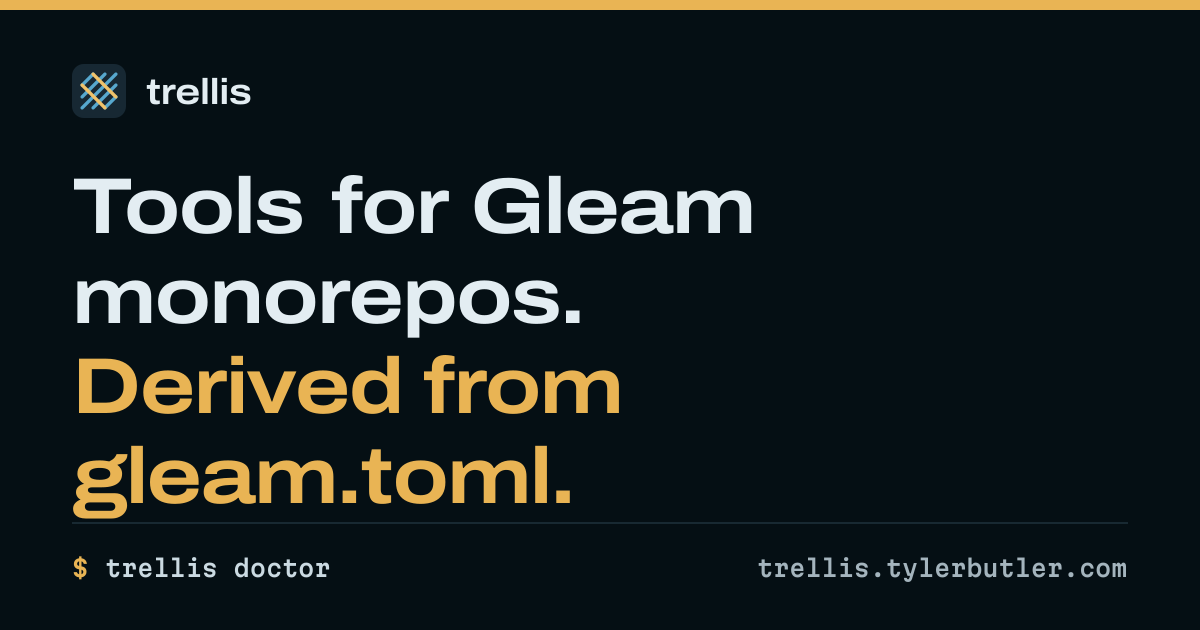
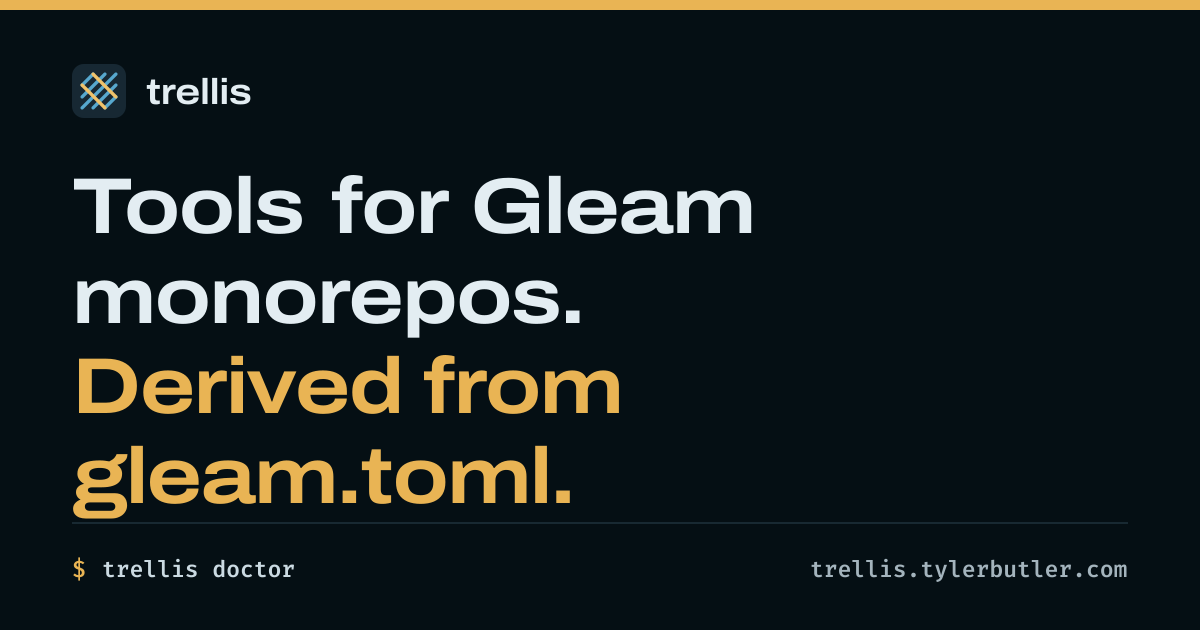
feat(website): switch code font to Fira Code
Replace Martian Mono with Fira Code Variable for ligature support and
a more compact advance width. Updated the fontsource dependency, CSS
tokens, Starlight/Expressive Code config, and the OG image script
(regenerated og.png). Fallback stack reordered so ui-monospace sits
after the named fonts and monospace stays the final catch-all.

Changed region(s): [[0.6167, 0.8746, 0.9558, 0.9349], [0.0617, 0.8746, 0.2775, 0.9349]]

diff --git a/website/scripts/generate-og.ts b/website/scripts/generate-og.ts
@@ -5,7 +5,7 @@
  * - Colors are parsed from src/styles/tokens.css (the same OKLCH tokens the
  *   site ships) and converted to hex with culori.
  * - Fonts are instanced at the exact DESIGN.md axis values (Archivo
- *   'wdth' 118 / wght 680, Martian Mono wght 560) from the same
+ *   'wdth' 118 / wght 680, Fira Code wght 560) from the same
  *   @fontsource-variable woff2 files the site serves, via HarfBuzz.
  * - The lattice glyph is the committed dark-scheme favicon mark.
  *
@@ -66,7 +66,7 @@ async function instance(
 const archivoText = headlinePlain + headlineBrass + wordmark;
 const monoText = `$ ${command}${domain}`;
 
-const [archivoDisplay, archivoWordmark, martianMono] = await Promise.all([
+const [archivoDisplay, archivoWordmark, firaCode] = await Promise.all([
   instance(
     "@fontsource-variable/archivo/files/archivo-latin-wdth-normal.woff2",
     archivoText,
@@ -78,7 +78,7 @@ const [archivoDisplay, archivoWordmark, martianMono] = await Promise.all([
     { wght: 640, wdth: 118 },
   ),
   instance(
-    "@fontsource-variable/martian-mono/files/martian-mono-latin-wght-normal.woff2",
+    "@fontsource-variable/fira-code/files/fira-code-latin-wght-normal.woff2",
     monoText,
     { wght: 560 },
   ),
@@ -175,7 +175,7 @@ const card = h(
             justifyContent: "space-between",
             alignItems: "center",
             marginTop: 30,
-            fontFamily: "Martian Mono",
+            fontFamily: "Fira Code",
             fontSize: 23,
           },
           [
@@ -199,7 +199,7 @@ const svg = await satori(card, {
   fonts: [
     { name: "Archivo Display", data: archivoDisplay, weight: 680 },
     { name: "Archivo Wordmark", data: archivoWordmark, weight: 640 },
-    { name: "Martian Mono", data: martianMono, weight: 560 },
+    { name: "Fira Code", data: firaCode, weight: 560 },
   ],
 });
 

diff --git a/website/src/styles/tokens.css b/website/src/styles/tokens.css
@@ -22,7 +22,7 @@
 
   /* -- type -- */
   --font-sans: "Archivo Variable", "Helvetica Neue", Arial, sans-serif;
-  --font-mono: "Martian Mono Variable", ui-monospace, "SF Mono", Menlo, monospace;
+  --font-mono: "Fira Code Variable", "SF Mono", Menlo, ui-monospace, monospace;
 
   --text-display: clamp(2.3rem, 1.1rem + 4.6vw, 4.4rem);
   --text-h2: clamp(1.6rem, 1.05rem + 2.1vw, 2.5rem);

diff --git a/website/src/styles/starlight.css b/website/src/styles/starlight.css
@@ -37,7 +37,7 @@
 
   /* type */
   --sl-font: "Archivo Variable", "Helvetica Neue", Arial, sans-serif;
-  --sl-font-mono: "Martian Mono Variable", ui-monospace, "SF Mono", Menlo, monospace;
+  --sl-font-mono: "Fira Code Variable", "SF Mono", Menlo, ui-monospace, monospace;
   --sl-text-base: var(--text-body);
   --sl-text-h1: var(--text-docs-h1);
   --sl-text-h2: var(--text-docs-h2);
